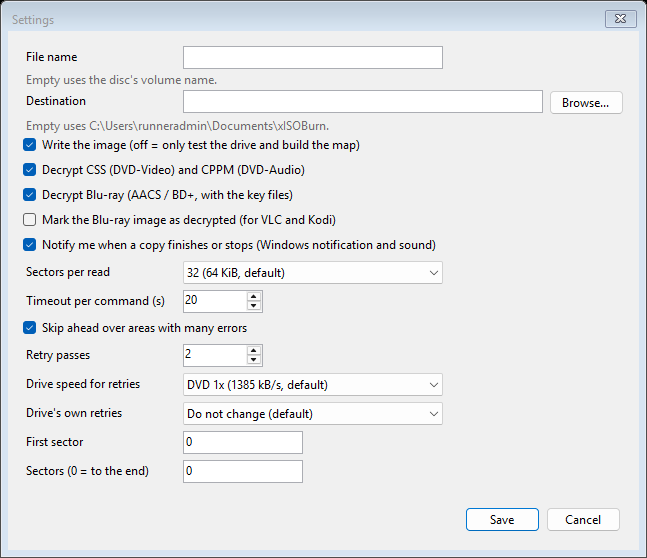
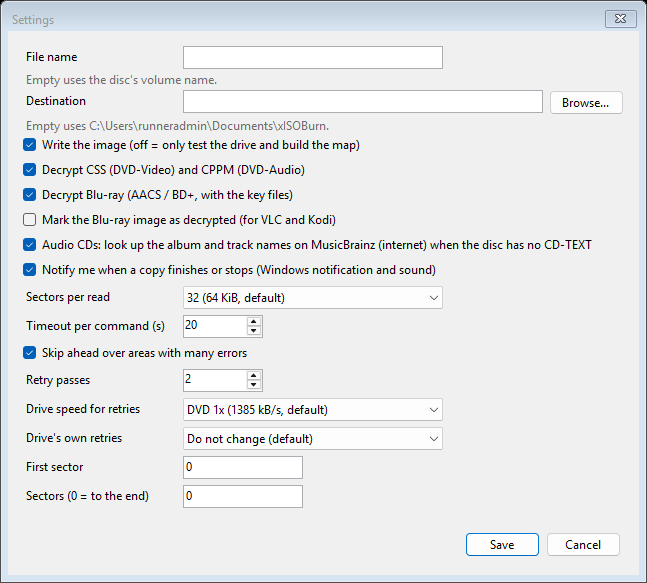
File name hint mentions audio CDs; CD lookup option after the Blu-ray ones on the web page

diff --git a/src/xISOBurn/SettingsForm.cs b/src/xISOBurn/SettingsForm.cs
@@ -87,7 +87,7 @@ namespace xISOBurn
             folderRow.Controls.Add(browse);
 
             row("File name", _outputName);
-            wide(new Label { Text = "Empty uses the disc's volume name.", AutoSize = true, ForeColor = SystemColors.GrayText });
+            wide(new Label { Text = "Empty uses the disc's volume name, or \"Artist - Album\" for an audio CD.", AutoSize = true, ForeColor = SystemColors.GrayText });
             row("Destination", folderRow);
             wide(new Label { Text = "Empty uses " + CopyStore.DefaultFolder + ".", AutoSize = true, ForeColor = SystemColors.GrayText });
             wide(_writeImage);
